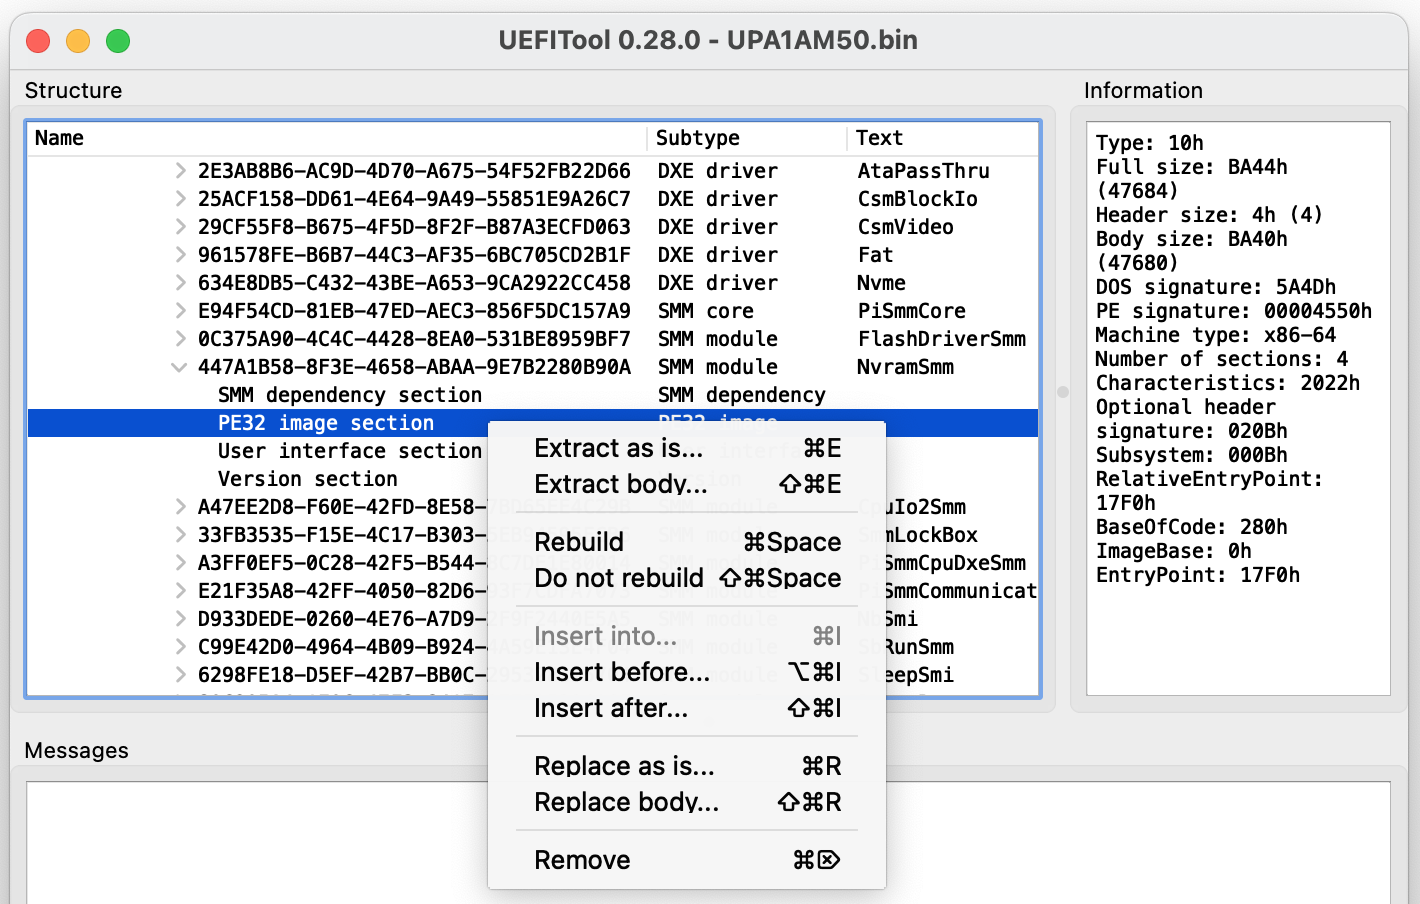
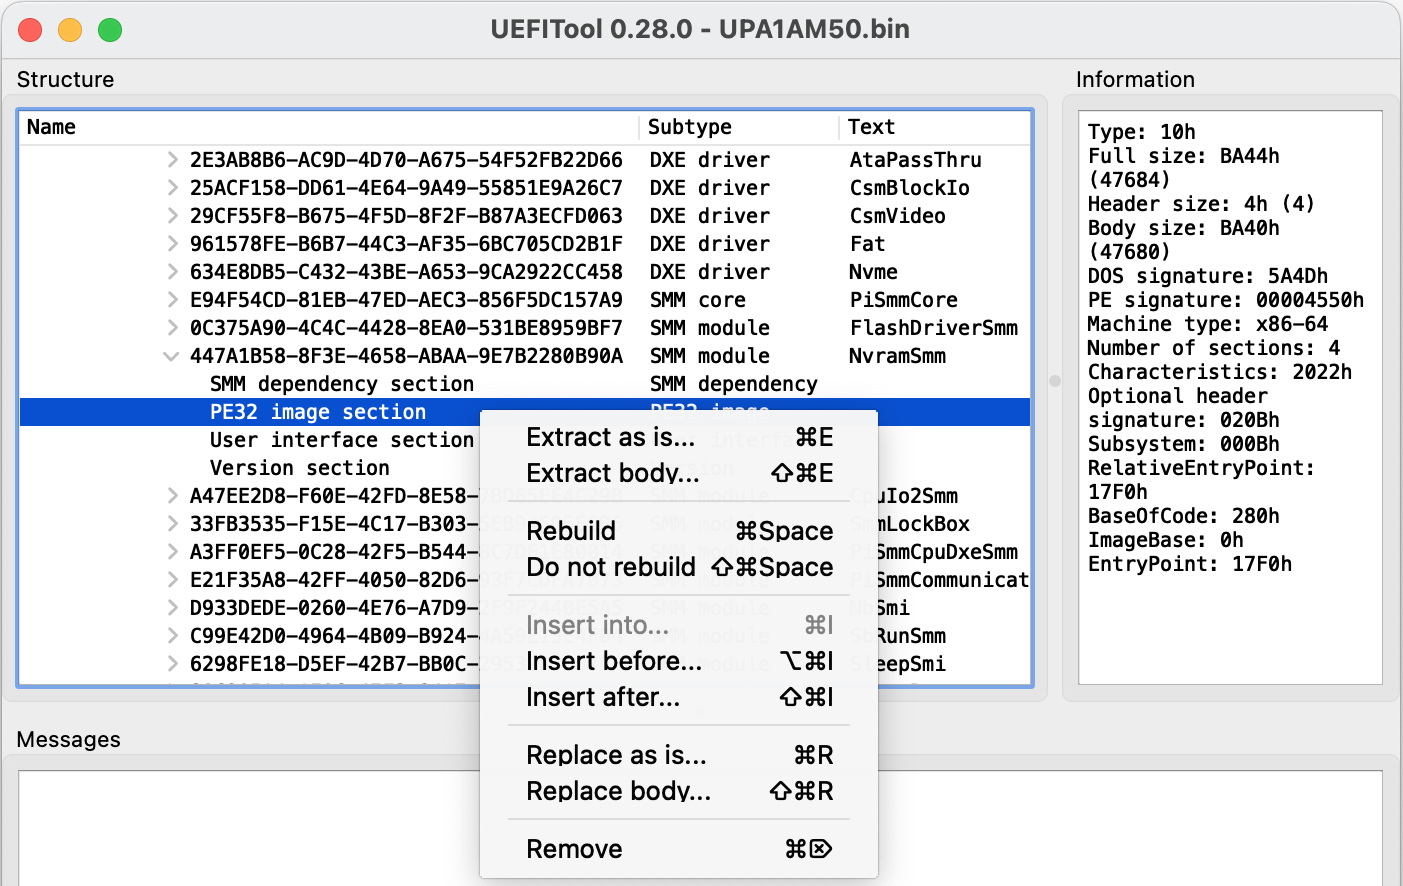
readme fixes

Changed region(s): [[0.0, 0.0, 1.0, 1.0], [0.3371, 0.0, 0.6436, 0.0609], [0.9808, 0.0, 1.0, 0.0305]]

diff --git a/README.md b/README.md
@@ -1,6 +1,11 @@
 
 # SMM Backdoor Next Gen
 
+[General information](#general-information)  
+[Backdoor usage](#backdoor-usage)  
+[Deploying the backdoor using firmware flash image infection](#deploying-the-backdoor-using-firmware-flash-image-infection)  
+[Using together with Hyper-V Backdoor](#using-together-with-hyper-v-backdoor)  
+
 ## General information
 
 This version of System Management Mode backdoor for UEFI based platforms was heavily inspired by [my previous project](http://blog.cr4.sh/2015/07/building-reliable-smm-backdoor-for-uefi.html) (check [its GitHub repository](https://github.com/Cr4sh/SmmBackdoor)) but introducing few key changes in order to make it more up to date:
@@ -194,7 +199,7 @@ Now you can read flash chip contents using Flashrom:
 
 After that you need to open dumped firmware in UEFITool, locate arbitrary UEFI SMM driver to infect and extract its PE32 image section from the firmware image:
 
-<img src="https://raw.githubusercontent.com/Cr4sh/SmmBackdoorNg/master/docs/images/uefi_tool.png" width="710">
+<img src="https://raw.githubusercontent.com/Cr4sh/SmmBackdoorNg/master/docs/images/uefi_tool.png" width="701">
 
 For example, I picked `NvramSmm` UEFI SMM driver responsible for NVRAM access as pretty much suitable one. Then you can infect extracted driver with SMM backdoor using `--infect` command line option of `smm_backkdoor.py` program:
 
